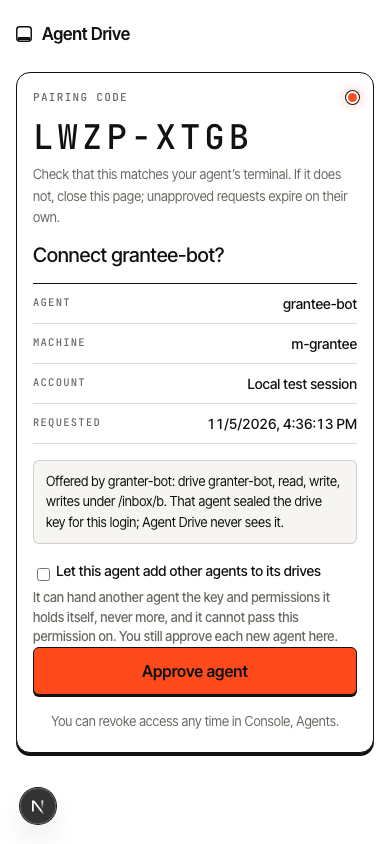
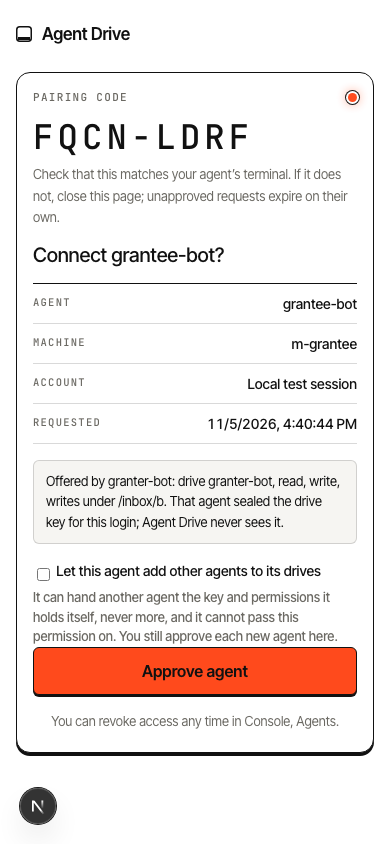
fix(grant): token exchange fails closed when an offer-approved request loses its offer or key
approved_offer_id is nulled when the offer or its key row is deleted, which skipped
revalidation. Record approved_from_offer independently (migration 0019 regenerated, still
unmerged) and deny at exchange when the offer or offering key is missing.

diff --git a/apps/web/src/api/device.ts b/apps/web/src/api/device.ts
@@ -227,11 +227,14 @@ async function exchangeDeviceCode(deviceCode: string, origin: string): Promise<I
     const label = row.machine ? `${row.client_name} on ${row.machine}` : row.client_name;
     // An approved offer is revalidated against the key that made it, which may have been revoked
     // or narrowed since approval. Nothing is issued then.
-    if (row.approved_offer_id) {
-      const offered = await client.query<OfferRow>('SELECT * FROM device_offers WHERE id = $1', [
-        row.approved_offer_id,
-      ]);
-      if (offered.rows[0] && !(await offeringKeyAllows(client, offered.rows[0]))) {
+    if (row.approved_from_offer) {
+      const offered = row.approved_offer_id
+        ? await client.query<OfferRow>('SELECT * FROM device_offers WHERE id = $1', [
+            row.approved_offer_id,
+          ])
+        : { rows: [] };
+      // A missing offer or key row counts as withdrawn.
+      if (!offered.rows[0] || !(await offeringKeyAllows(client, offered.rows[0]))) {
         await client.query("UPDATE device_authorizations SET status = 'denied' WHERE id = $1", [
           row.id,
         ]);
@@ -672,7 +675,8 @@ async function approve(
     `UPDATE device_authorizations
         SET status = 'approved', account_id = $2, agent_id = $3, drive_ids = $4::uuid[],
             scopes = $5::text[], new_drive_id = $6, sealed_drive_keys = $7::jsonb,
-            write_paths = $8::text[], approved_offer_id = $9, decided_at = now()
+            write_paths = $8::text[], approved_offer_id = $9, approved_from_offer = $10,
+            decided_at = now()
       WHERE id = $1`,
     [
       row.id,
@@ -684,6 +688,7 @@ async function approve(
       Object.keys(sealed).length ? JSON.stringify(sealed) : null,
       paths,
       offerId,
+      offerId !== null,
     ],
   );
 }

diff --git a/apps/web/src/api/device.integration.test.ts b/apps/web/src/api/device.integration.test.ts
@@ -1249,6 +1249,24 @@ describe('grant by an existing agent (handoff a)', () => {
     expect((await approveWith(k, narrowed.user_code, { offerRevision: 1 })).status).toBe(409);
   });
 
+  it('fails closed at exchange when the offer or its key row is gone', async () => {
+    const g = await makeGranter();
+    const started = await start({ client_name: 'orphan' });
+    await offer(g, started.user_code);
+    expect((await approveWith(g, started.user_code, { offerRevision: 1 })).status).toBe(200);
+    // Deleting the key cascades to the offer and nulls approved_offer_id.
+    await pool.query('DELETE FROM api_keys WHERE id = $1', [g.keyId]);
+    await allowPoll(started.device_code);
+    const denied = await poll(started.device_code);
+    expect(denied.status).toBe(400);
+    expect((await json(denied)).error).toBe('access_denied');
+    const row = await pool.query(
+      'SELECT status, api_key_id FROM device_authorizations WHERE user_code = $1',
+      [started.user_code],
+    );
+    expect(row.rows[0]).toEqual({ status: 'denied', api_key_id: null });
+  });
+
   for (const route of ['GET', 'POST'] as const) {
     it(`shares the console attempt budget on ${route} (10 not_found, then 30 attempts)`, async () => {
       const call = (g: Granter, code: string) =>

diff --git a/apps/web/src/db/schema.ts b/apps/web/src/db/schema.ts
@@ -2,6 +2,7 @@ import { sql } from 'drizzle-orm';
 import {
   type AnyPgColumn,
   bigint,
+  boolean,
   check,
   index,
   integer,
@@ -606,6 +607,8 @@ export const deviceAuthorizations = pgTable(
     approvedOfferId: uuid('approved_offer_id').references((): AnyPgColumn => deviceOffers.id, {
       onDelete: 'set null',
     }),
+    // Survives deletion of the offer or its key, so exchange can fail closed.
+    approvedFromOffer: boolean('approved_from_offer').notNull().default(false),
     intervalSeconds: integer('interval_seconds').notNull().default(5),
     lastPolledAt: timestamp('last_polled_at', { withTimezone: true, mode: 'date' }),
     createdAt: timestamp('created_at', { withTimezone: true, mode: 'date' }).notNull().defaultNow(),
